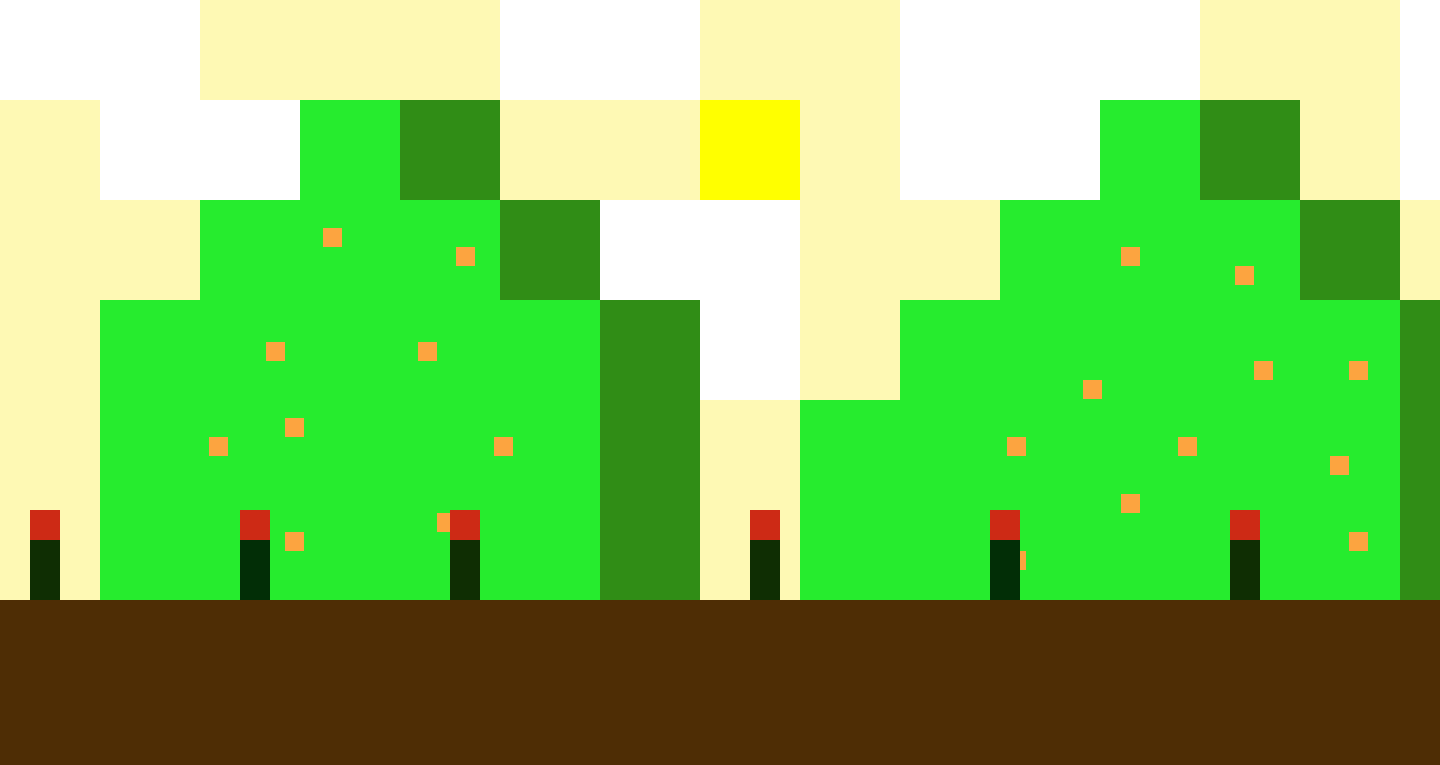
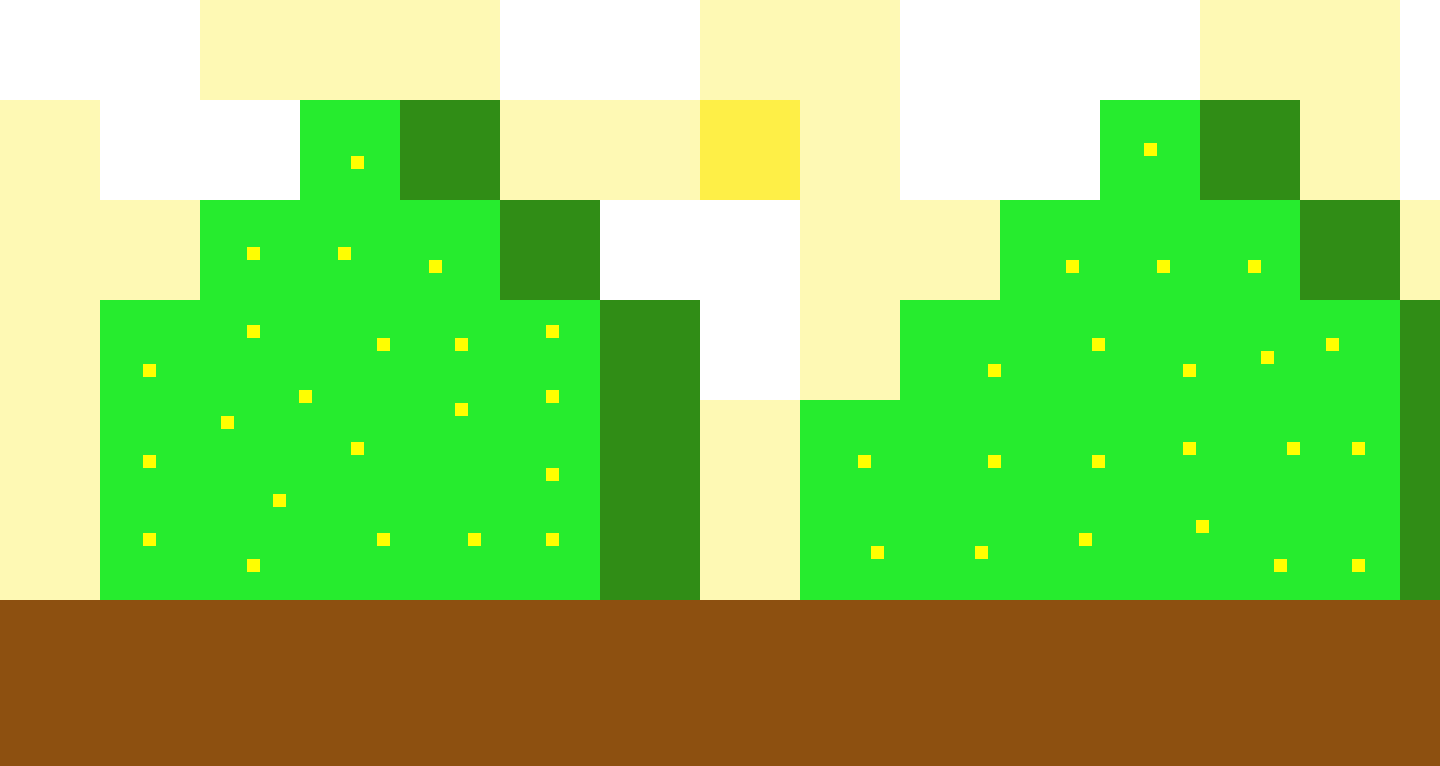
Add files via upload

diff --git a/script.js b/script.js
@@ -1,4 +1,21 @@
+var myCommands= function() {
+$(".background").addClass("special");
+};
+
+var restoreBackground= function(){
+$(".background").removeClass("special");
+};
+
+
 document.addEventListener("DOMContentLoaded", function () {
   var mugen = new MUGEN();
-  mugen.initialize({attackRadius: 20, monsterHitRadius: 100, attackDuration:300, jumpHeight: 250, monsterSpeed: 550});
+  mugen.initialize({ 
+  	titleScreenImageURL: "splashscreen.png",
+  	attackRadius: 20,
+  	 monsterHitRadius: 100, attackDuration:300,
+  	  jumpHeight: 250, 
+  	  monsterSpeed: 650, 
+  	  onMonsterSpawn: myCommands, 
+  	  onMonsterWasHit: restoreBackground
+  	});
 });

diff --git a/style.css b/style.css
@@ -67,6 +67,10 @@ body {
   pointer-events: none;
 }
 
+.special {
+  background-image: url("background2.png");
+}
+
 .hero {
  position: absolute;
   bottom: 200px;
@@ -121,8 +125,6 @@ body {
   animation-duration: 500ms;
   animation-timing-function: steps(2); /* number of frames in sprite (not counting the final blank space) */
   animation-iteration-count: infinite;  
-  transition-property: right;
-  transition-timing-function: linear;
   pointer-events: none;
 }
 

diff --git a/index.html b/index.html
@@ -4,6 +4,7 @@
     <title>Sprite Animations</title>
     <meta name="viewport" content="width=device-width, initial-scale=1.0, shrink-to-fit=no">
     <link rel="stylesheet" href="style.css">
+    <script src="https://ajax.googleapis.com/ajax/libs/jquery/3.3.1/jquery.min.js"></script>
     <script src="../mugen.min.js"></script>
     <script src="script.js"></script>  
   </head>
